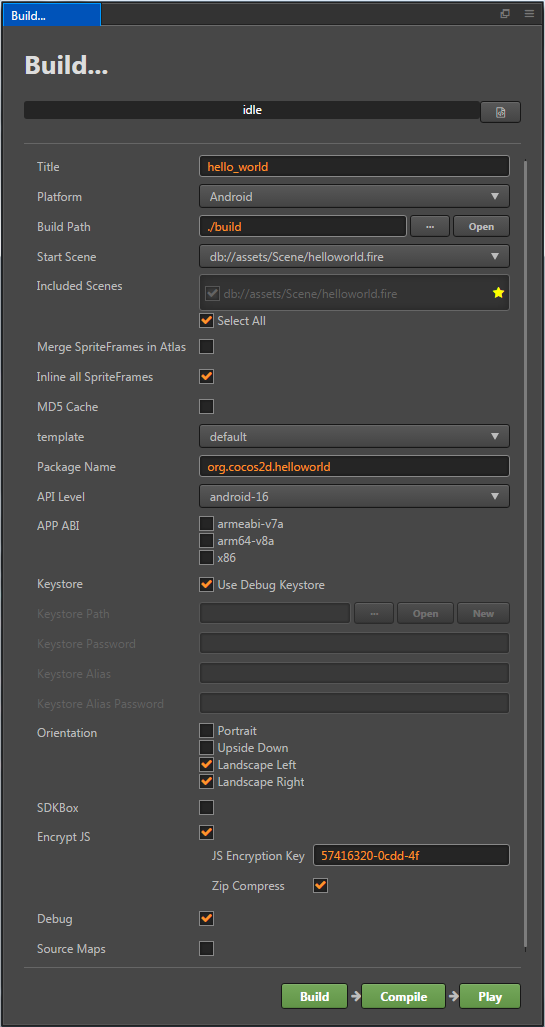
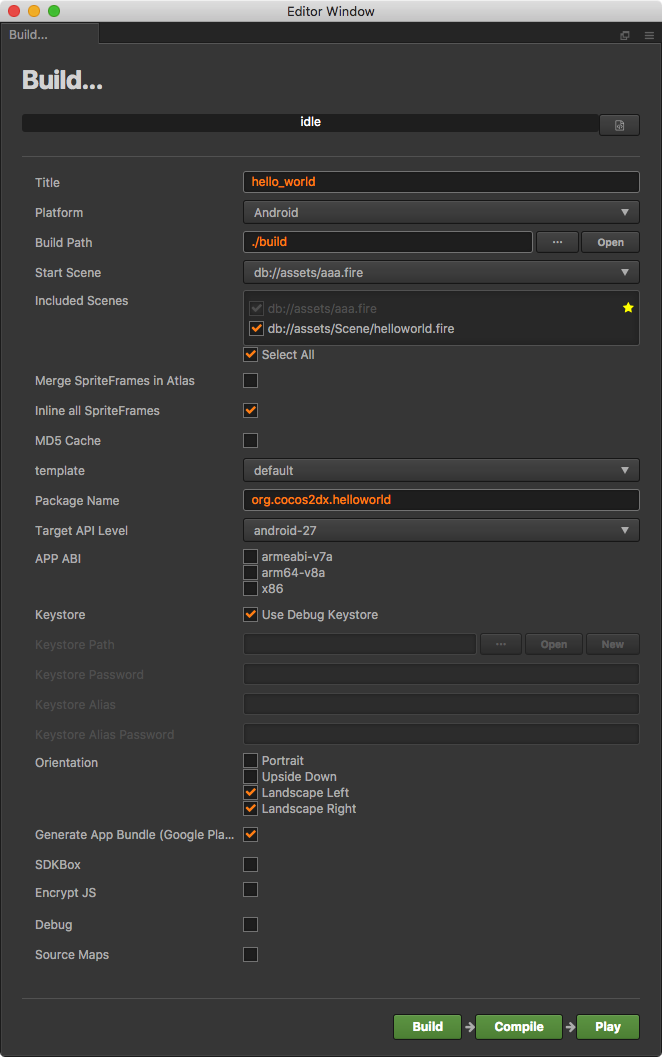
add app bundle support docs

Changed region(s): [[0.0, 0.0, 1.0, 1.0], [0.0624, 0.5609, 0.2495, 0.7478], [0.5615, 0.8101, 0.7798, 0.8724]]

diff --git a/en/publish/publish-native.md b/en/publish/publish-native.md
@@ -58,6 +58,11 @@ APP ABI：To set up the CPU type that Android needs to support, you can select o
 
 Android requires that all APKs be digitally signed with a certificate before they can be installed. Cocos Creator provides a default keystore, Check the `Use Debug Keystore` to use the default keystore. If you need to customize the keystore, you can remove the `Use Debug Keystore` checkbox. Please refer to [official documents](https://developer.android.com/studio/publish/app-signing?hl=zh-cn).
 
+
+### App Bundle (Google Play)
+
+Creator now supports App Bundle for Google Play Store When building Android or Android Instant platform. Please refer to [official documents](https://developer.android.com/guide/app-bundle/)).
+
 ### Encrypt JS
 
 Encrypt the published script. After build, the JSC file is generated in the `src` directory, which is encrypted. And JS files will be backed up in the `js backups` directory for debugging, and will not enter the APP when packaged.
